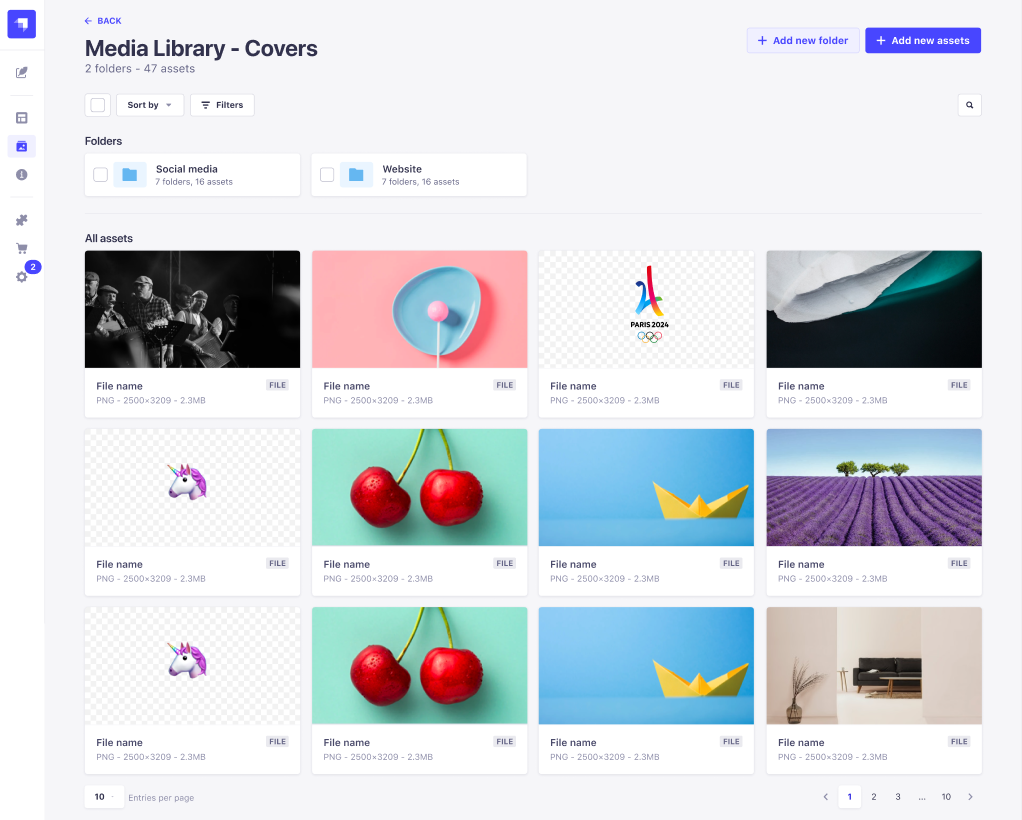
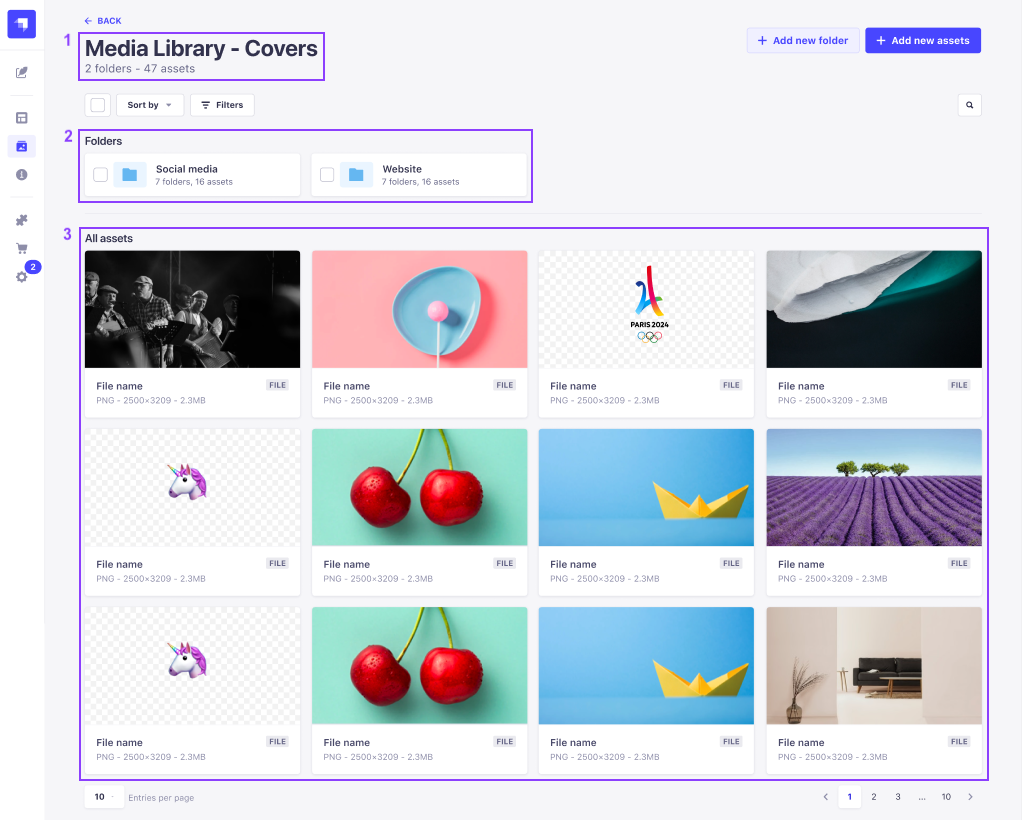
Update screenshots and text accordingly

diff --git a/docs/user-docs/latest/media-library/organizing-assets-with-folders.md b/docs/user-docs/latest/media-library/organizing-assets-with-folders.md
@@ -16,10 +16,9 @@ From the Media Library, it is possible to view the list of folders and browse a 
 
 By default, the Media Library displays folders and assets created at the root level. Clicking a folder navigates to this folder, and displays the following elements:
 
-- the folder title (1)
-- the number of subfolders and assets (2) the current folder contains
-- the subfolders (3) the current folder contains
-- all assets (4) from this folder
+- the folder title and the number of subfolders and assets the current folder contains (1)
+- the subfolders (2) the current folder contains
+- all assets (3) from this folder
 
 <!-- TODO: replace screenshot -->
 ![🏞 screenshot - Media library one folder deep, with back button and updated folder title](../assets/media-library/media-library_folder-content.png)
@@ -34,9 +33,9 @@ To navigate back to the parent folder, one level up, use the **Back** button at 
 To create a new folder in the Media Library:
 
 1. Click on **Add new folder** in the upper right of the Media Library interface.
-2. In the window that pops up, type a name for the new folder in the _Folder name_ field.
-3. (optional) In the _Folder location_ drop-down list, choose a location for the new folder. The default location is the active folder.
-4. Click **Save**.
+2. In the window that pops up, type a name for the new folder in the _Name_ field.
+3. (optional) In the _Location_ drop-down list, choose a location for the new folder. The default location is the active folder.
+4. Click **Create**.
 
 ::: note
 There is no limit to how deep your folders hierarchy can go, but bear in mind it might take some effort to reach a deeply nested folder, as the Media Library currently has no visual hierarchy indication. Searching for files using the ![Search icon](../assets/icons/search.svg) on the right side of the user interface might be a faster alternative to finding the asset you are looking for.
@@ -53,8 +52,8 @@ To bulk move assets and folders to another folder:
 
 1. Select assets and folder to be moved, by clicking the checkbox on the left of the folder name or clicking the asset itself.
 2. Click the ![Move icon](../assets/icons/move.svg) **Move** button at the top of the interface.
-3. In the _Move elements to_ pop-up window, select the new folder from the _Folder location_ drop-down list.
-4. Click **Confirm**.
+3. In the _Move elements to_ pop-up window, select the new folder from the _Location_ drop-down list.
+4. Click **Move**.
 
 ::: note
 An individual asset can also be moved to a folder when [editing the asset](/user-docs/latest/media-library/managing-assets.md).
@@ -65,7 +64,7 @@ An individual asset can also be moved to a folder when [editing the asset](/user
 Once created, a folder can be renamed, moved or deleted. To manage a single folder:
 
 1. In the Folders part of the Media library, hover the folder to be edited and click its edit button ![Edit icon](../assets/icons/edit.svg).
-2. In the window that pops up, update the name and location with the _Folder name_ field and _Folder location_ drop-down list, respectively.
+2. In the window that pops up, update the name and location with the _Name_ field and _Location_ drop-down list, respectively.
 3. Click **Save**.
 
 ## Deleting folders

diff --git a/docs/user-docs/latest/media-library/introduction-to-media-library.md b/docs/user-docs/latest/media-library/introduction-to-media-library.md
@@ -19,11 +19,10 @@ The Media Library displays all assets uploaded in the application, either via th
 
 From the Media Library, it is possible to:
 
-- upload a new asset (1) (see [adding assets](/user-docs/latest/media-library/adding-assets.md)),
-- create a new folder (2) (see [organizing assets with folders](/user-docs/latest/media-library/organizing-assets-with-folders.md)),
-- sort the assets and folders (3) or set filters (4) to find assets and folders more easily,
-- make a textual search (5) to find a specific asset or folder,
-- and view, navigate through, and manage folders (6).
+- upload a new asset (see [adding assets](/user-docs/latest/media-library/adding-assets.md)) or create a new folder (see [organizing assets with folders](/user-docs/latest/media-library/organizing-assets-with-folders.md)) (1),
+- sort the assets and folders or set filters (2) to find assets and folders more easily,
+- make a textual search (3) to find a specific asset or folder,
+- and view, navigate through, and manage folders (4).
 
 ::: tip
 Click the search icon ![Search icon](../assets/icons/search.svg) on the right side of the user interface to use a text search and find one of your assets or folders more quickly!
